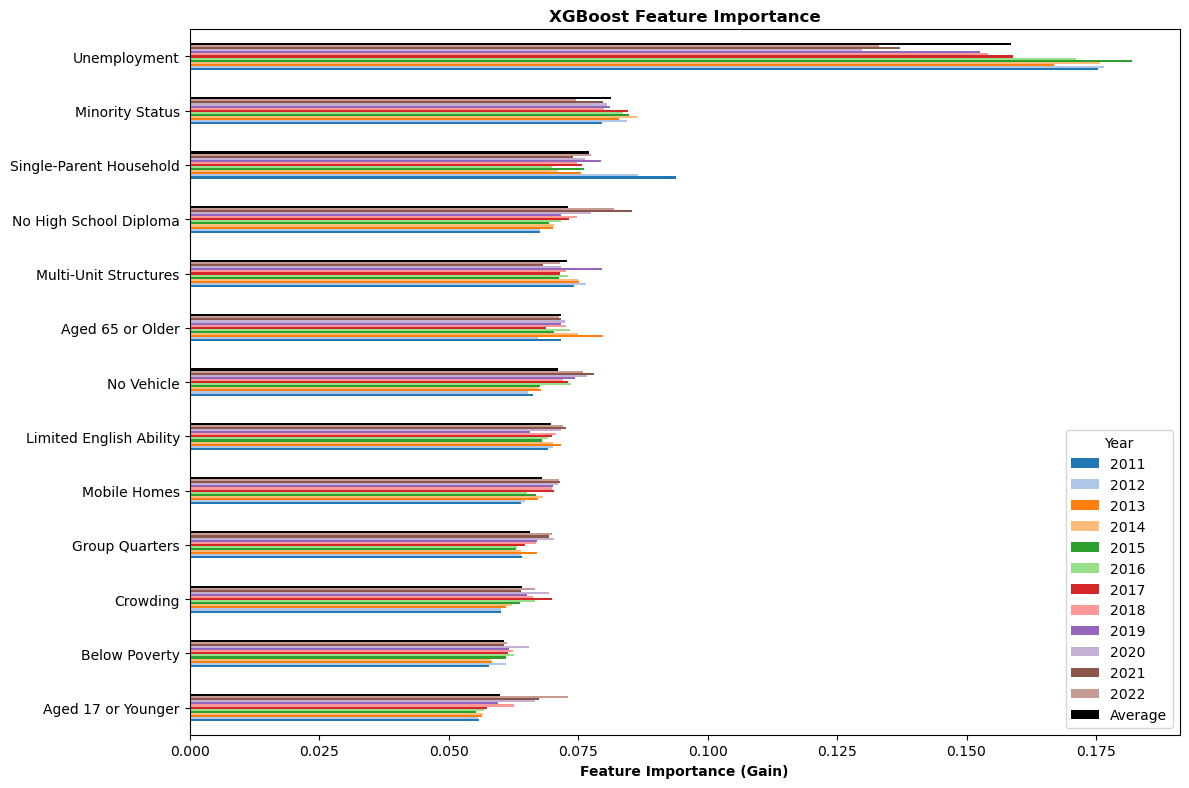
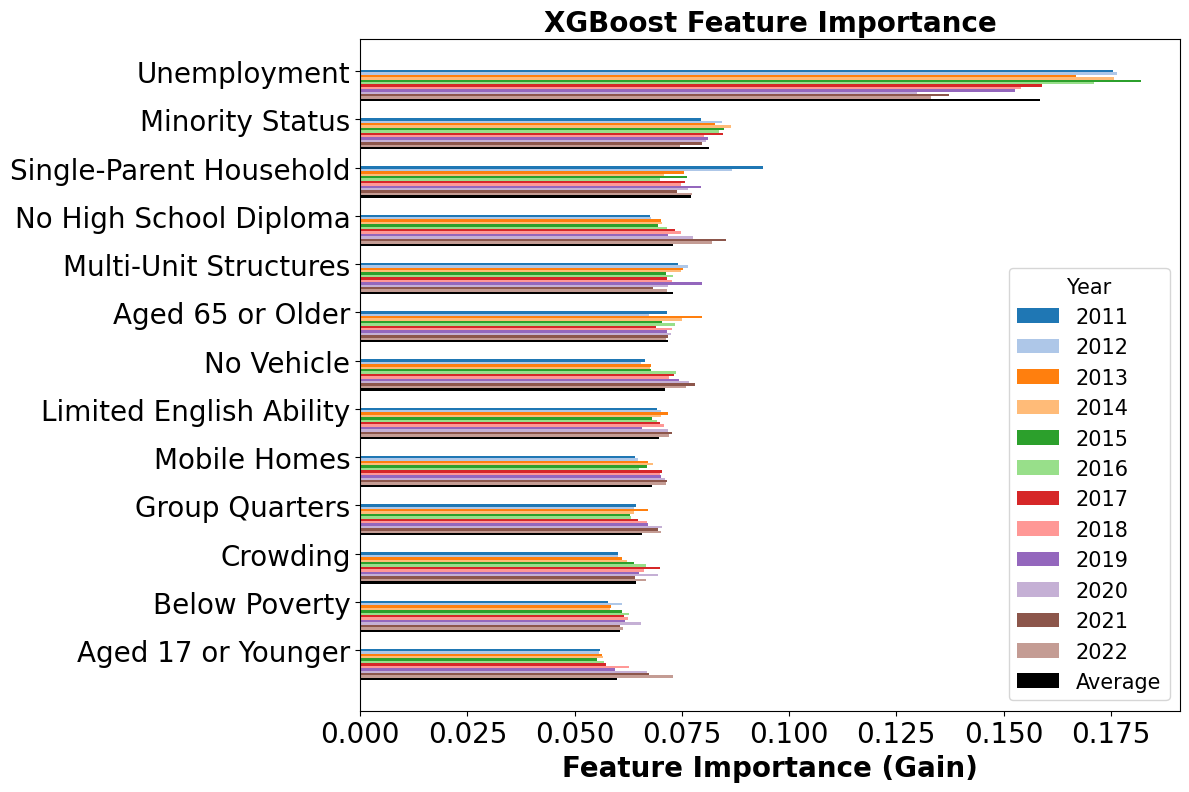
update

diff --git a/XGBoost/xgboost_model.py b/XGBoost/xgboost_model.py
@@ -107,23 +107,41 @@ def plot_feature_importance(feature_importance_df):
     # Sort the DataFrame by the average importance
     feature_importance_df = feature_importance_df.sort_values(by='Average', ascending=True)
 
-    # Color the bars on the importance plot
-    num_years = len(feature_importance_df.columns) - 1  # Exclude 'Average'
+    # Get the variables (features) and years (columns)
+    features = feature_importance_df.index
+    years = feature_importance_df.columns
+
+    # Define bar width and positions for each group
+    bar_width = 0.6
+    y_positions = np.arange(len(features))  # Spacing between feature groups
+
+    # Define colors
+    num_years = len(years) - 1  # Exclude 'Average'
     colors = list(plt.cm.tab20.colors[:num_years]) + ['black']  # Add black for 'Average'
 
-    # Plot the feature importance over the years
-    ax = feature_importance_df.plot(kind='barh', figsize=(12, 8), legend=True, color=colors)
+    # Create figure and axis
+    fig, ax = plt.subplots(figsize=(12, 8))
 
-    plt.title('XGBoost Feature Importance', fontweight='bold')
-    plt.xlabel('Feature Importance (Gain)', fontweight='bold')
-    plt.legend(title='Year', bbox_to_anchor=(1, 0), loc='lower right')
-    
+    # Plot each year's bars
+    for i, year in enumerate(years):
+        ax.barh(y_positions - i * bar_width / num_years, feature_importance_df[year],
+                height=bar_width / num_years, label=year, color=colors[i])
+
+    # Adjust labels, title, and legend
+    ax.set_yticks(y_positions)
+    ax.set_yticklabels(features, fontsize=20)
+    ax.set_xlabel('Feature Importance (Gain)', fontsize=20, fontweight='bold')
+    ax.tick_params(axis='x', labelsize=20)  # Increase the font size of x-axis tick labels
+    ax.set_title('XGBoost Feature Importance', fontsize=20, fontweight='bold')
+    ax.legend(title='Year', fontsize=15, title_fontsize=15, loc='lower right')
+
     # Adjust layout and save
     plt.tight_layout()
     plt.savefig('Feature Importance/xgboost_feature_importance.png', bbox_inches='tight')
     plt.close()
 
     # Log the average feature importance for each variable
+    feature_importance_df = feature_importance_df.sort_values(by='Average', ascending=False)
     logging.info("Average Feature Importance for each variable:")
     for feature, avg_importance in feature_importance_df['Average'].items():
         logging.info(f"{feature}: {avg_importance:.4f}")
